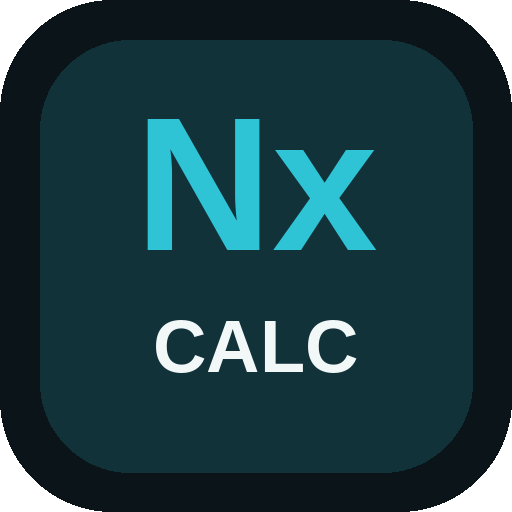
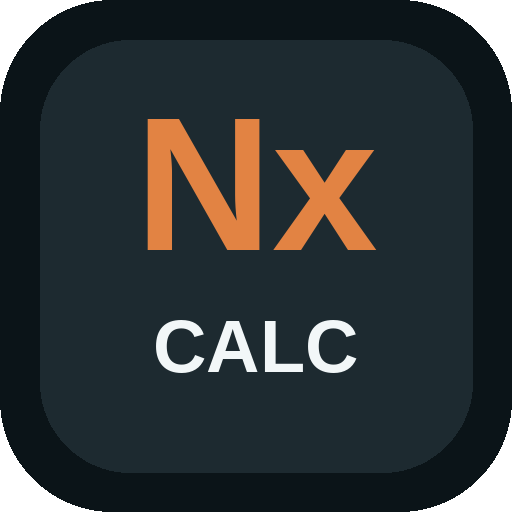
Nitrox Calc : pleine largeur sur mobile, accent #e28343 ; une case touchée = son calcul seulement
2e = : tout le calcul, sans explications ; 3e = : les explications.

Claude-Session: https://claude.ai/code/session_01UePpYX5eujhm5cfocQ7nu1

Changed region(s): [[0.2812, 0.2188, 0.75, 0.5]]

diff --git a/calc/index.html b/calc/index.html
@@ -10,10 +10,11 @@
 <link rel="icon" href="icon-192.png">
 <link rel="apple-touch-icon" href="icon-192.png">
 <style>
-  :root { --bg: #0b1418; --key: #1d2a30; --key2: #26363d; --txt: #f2f7f8; --txt2: #8fa5ad; --acc: #2ec4d6; --acc2: #0e8fa0; --warn: #ffb347; }
+  :root { --bg: #0b1418; --key: #1d2a30; --key2: #26363d; --txt: #f2f7f8; --txt2: #8fa5ad; --acc: #e28343; --acc2: #b8622a; --warn: #f5d0ad; }
   * { box-sizing: border-box; -webkit-tap-highlight-color: transparent; }
   html, body { margin: 0; height: 100%; background: var(--bg); color: var(--txt); font-family: system-ui, -apple-system, "Segoe UI", Roboto, sans-serif; overflow: hidden; }
-  .app { height: 100dvh; display: flex; flex-direction: column; max-width: 560px; margin: 0 auto; padding: env(safe-area-inset-top) 12px calc(10px + env(safe-area-inset-bottom)); }
+  html { font-size: clamp(14px, 3.7vw, 19px); }
+  .app { height: 100dvh; display: flex; flex-direction: column; width: 100%; max-width: 760px; margin: 0 auto; padding: env(safe-area-inset-top) 4vw calc(10px + env(safe-area-inset-bottom)); }
   header { display: flex; align-items: baseline; gap: 22px; padding: 14px 4px 10px; flex: 0 0 auto; }
   header .nom { color: #5d7178; font-size: .8rem; font-weight: 600; margin-right: auto; }
   header button { border: 0; background: none; padding: 0; font: inherit; font-size: 1.3rem; font-weight: 700; color: #5d7178; cursor: pointer; }
@@ -42,12 +43,12 @@
   .r-l b { color: #fff; font-weight: 600; }
   .r-l small, .r-t small { flex-basis: 100%; display: block; color: var(--warn); font-size: .78rem; text-align: right; }
   .r-t small { text-align: left; }
-  .r-rep { margin-top: 6px; text-align: right; font-weight: 700; font-size: 1.15rem; color: var(--acc); }
+  .r-rep { margin-top: 6px; text-align: right; font-weight: 700; font-size: .95rem; color: var(--acc); }
   #ruban > * { flex-shrink: 0; }
   .r-vals { display: grid; grid-template-columns: 1fr 1fr; column-gap: 18px; row-gap: 1px; }
   .r-tab { overflow-x: auto; scrollbar-width: none; margin-top: 4px; }
   .r-tab::-webkit-scrollbar { display: none; }
-  .r-tab table { border-collapse: collapse; width: 100%; font-size: .74rem; font-variant-numeric: tabular-nums; }
+  .r-tab table { border-collapse: collapse; width: 100%; font-size: .8rem; font-variant-numeric: tabular-nums; }
   .r-tab th { color: var(--txt2); font-weight: 600; padding: 3px 4px; text-align: center; border-bottom: 1px solid #2f444c; white-space: nowrap; }
   .r-tab td { padding: 5px 4px; text-align: center; white-space: nowrap; border-bottom: 1px solid #1a272c; }
   .r-tab td:first-child { text-align: left; color: var(--txt2); }
@@ -62,11 +63,11 @@
   #affichage.vide { color: #5d7178; }
   #affichage.err { color: #ff6b6b; }
   #clavier { display: grid; grid-template-columns: repeat(4, 1fr); gap: 9px; flex: 0 0 auto; }
-  .t { height: min(10.5vh, 68px); border: 0; border-radius: 18px; background: var(--key); color: var(--txt); font-size: 1.6rem; font-weight: 600; cursor: pointer; user-select: none; touch-action: manipulation; }
+  .t { height: min(10.5vh, 4rem); border: 0; border-radius: 18px; background: var(--key); color: var(--txt); font-size: 1.6rem; font-weight: 600; cursor: pointer; user-select: none; touch-action: manipulation; }
   .t:active { filter: brightness(1.35); }
   .t.fn { color: var(--acc); background: var(--key2); font-size: 1.3rem; }
   .t.op { color: var(--acc); font-size: 1.8rem; }
-  .t.egal { grid-column: 1 / -1; background: var(--acc); color: #04252b; font-weight: 800; font-size: 1.9rem; height: min(9vh, 58px); }
+  .t.egal { grid-column: 1 / -1; background: var(--acc); color: #fff; font-weight: 800; font-size: 1.9rem; height: min(9vh, 3.4rem); }
 </style>
 <script src="../shared/mn90.js" defer></script>
 <script src="../nitrox/examen.js" defer></script>

diff --git a/calc/app.js b/calc/app.js
@@ -268,12 +268,14 @@
   ruban.classList.add('plie');
   const esc = t => String(t).replace(/&/g, '&amp;').replace(/"/g, '&quot;').replace(/</g, '&lt;');
   // Déplier = tout voir, explications comprises ; replier = les 2 dernières lignes
-  const plier = oui => { ruban.classList.toggle('plie', oui); S.expl = !oui; S.detail = null; rendre(); };
+  // Déplier = toutes les lignes de calcul (sans explications) ; replier = les 2 dernières
+  const plier = oui => { ruban.classList.toggle('plie', oui); S.expl = false; S.detail = null; rendre(); };
   ruban.addEventListener('click', e => {
     const td = e.target.closest('td[data-d]');
     if (td) {
       S.detail = S.detail && S.detail.id === td.dataset.id ? null : { id: td.dataset.id, t: td.dataset.d, tab: td.closest('.r-tab').dataset.i };
-      if (ruban.classList.contains('plie')) { ruban.classList.remove('plie'); S.expl = true; }
+      if (ruban.classList.contains('plie')) ruban.classList.remove('plie');
+      S.expl = false;   // une case touchée : son calcul seulement
       return rendre();
     }
     if (e.target.closest('.r-tab') && !ruban.classList.contains('plie')) return;   // une case sans calcul : rien
@@ -312,7 +314,7 @@
       const c = S.q.champs[S.i];
       invite.textContent = `${c.q}  (${String(c.v).replace('.', ',')} si vide)`;
     } else if (S.detail) invite.textContent = S.detail.t;
-    else invite.textContent = S.expl && S.ruban.some(x => x.tab) ? 'Touche une case du tableau pour voir son calcul' : '';
+    else invite.textContent = '';
     invite.classList.toggle('detail', !!S.detail);
     affichage.textContent = S.saisie || '0';
     affichage.classList.toggle('vide', !S.saisie);
@@ -351,7 +353,10 @@
       } catch (e) { flash(); }
       return rendre();
     }
-    if (S.q && S.fini && ruban.classList.contains('plie')) plier(false);
+    if (S.q && S.fini) {
+      if (ruban.classList.contains('plie')) return plier(false);   // 2e = : tout le calcul
+      if (!S.expl) { S.expl = true; S.detail = null; rendre(); }    // 3e = : les explications
+    }
   }
   function flash() { affichage.classList.add('err'); setTimeout(() => affichage.classList.remove('err'), 350); }
 

diff --git a/sw.js b/sw.js
@@ -1,7 +1,7 @@
 /* MN90 Mobile — service worker : appli installable et utilisable hors ligne.
    Stratégie "réseau d'abord" : en ligne on a toujours la dernière version ;
    hors ligne, on sert la dernière copie gardée en cache. */
-const CACHE = 'mn90-v16';
+const CACHE = 'mn90-v17';
 const CORE = [
   './', './index.html', './manifest.webmanifest',
   './shared/style.css', './shared/theme.js', './shared/mn90.js', './shared/profile.js', './shared/glossary.js',
